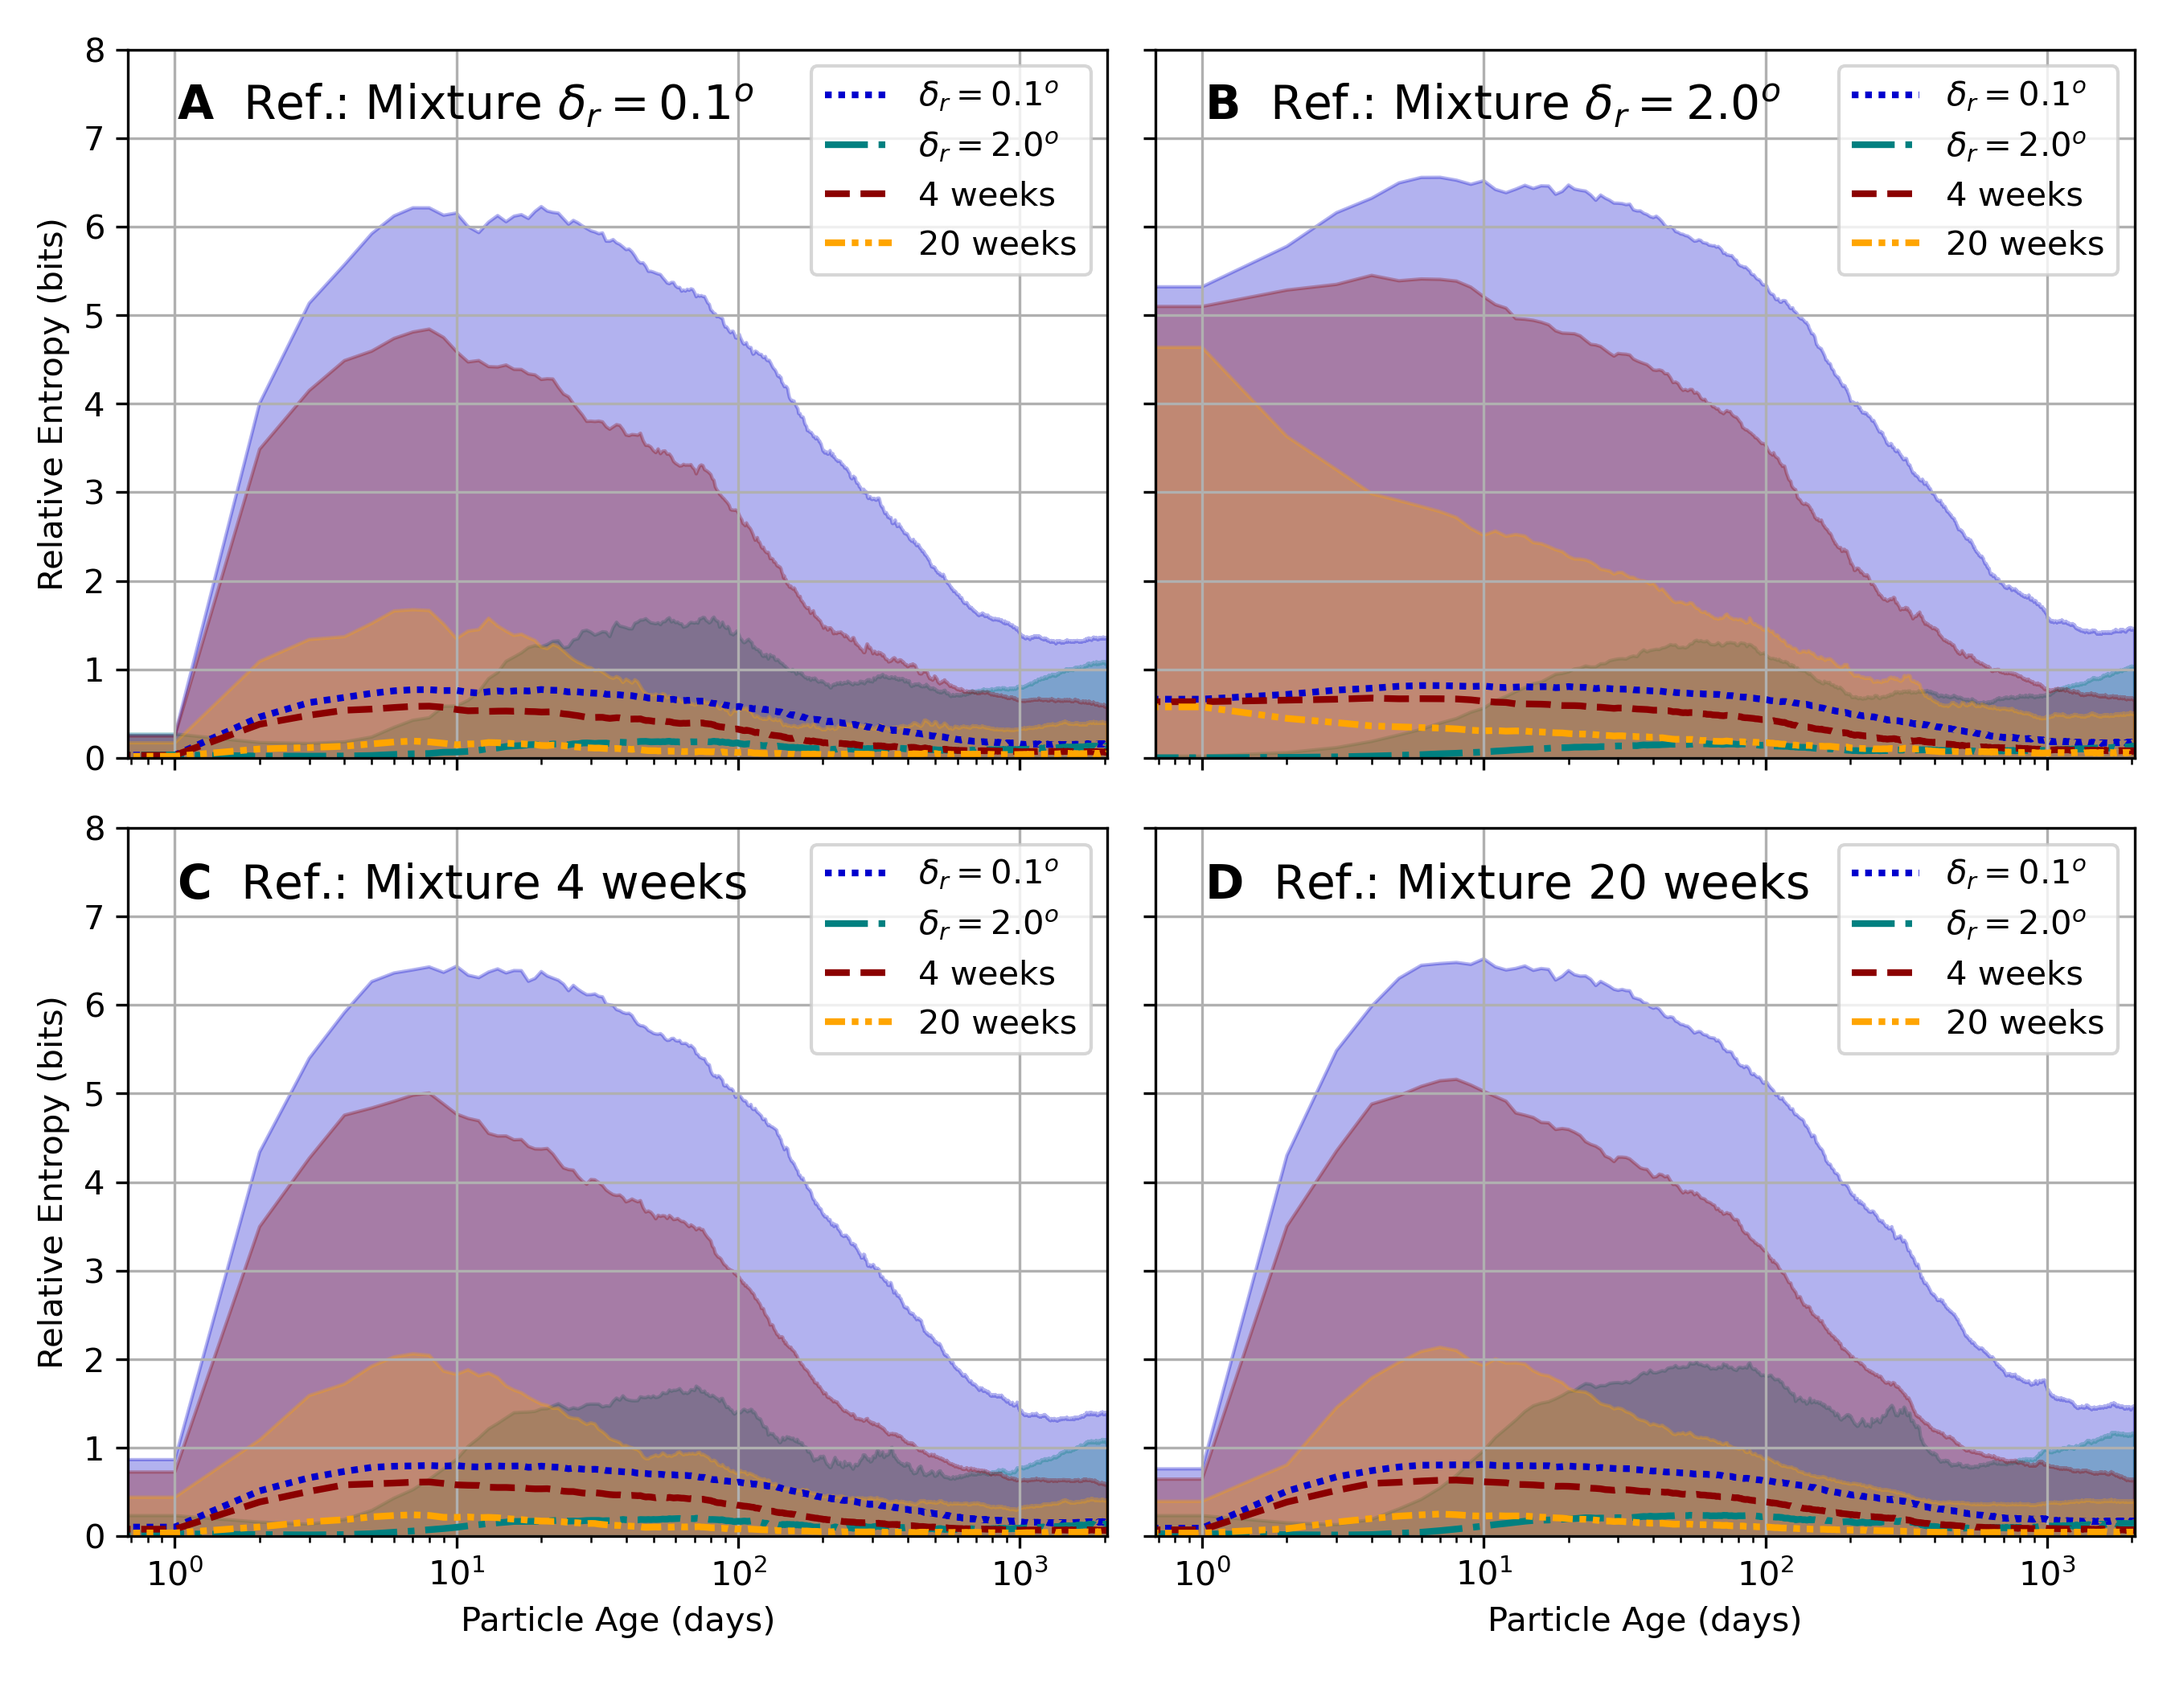
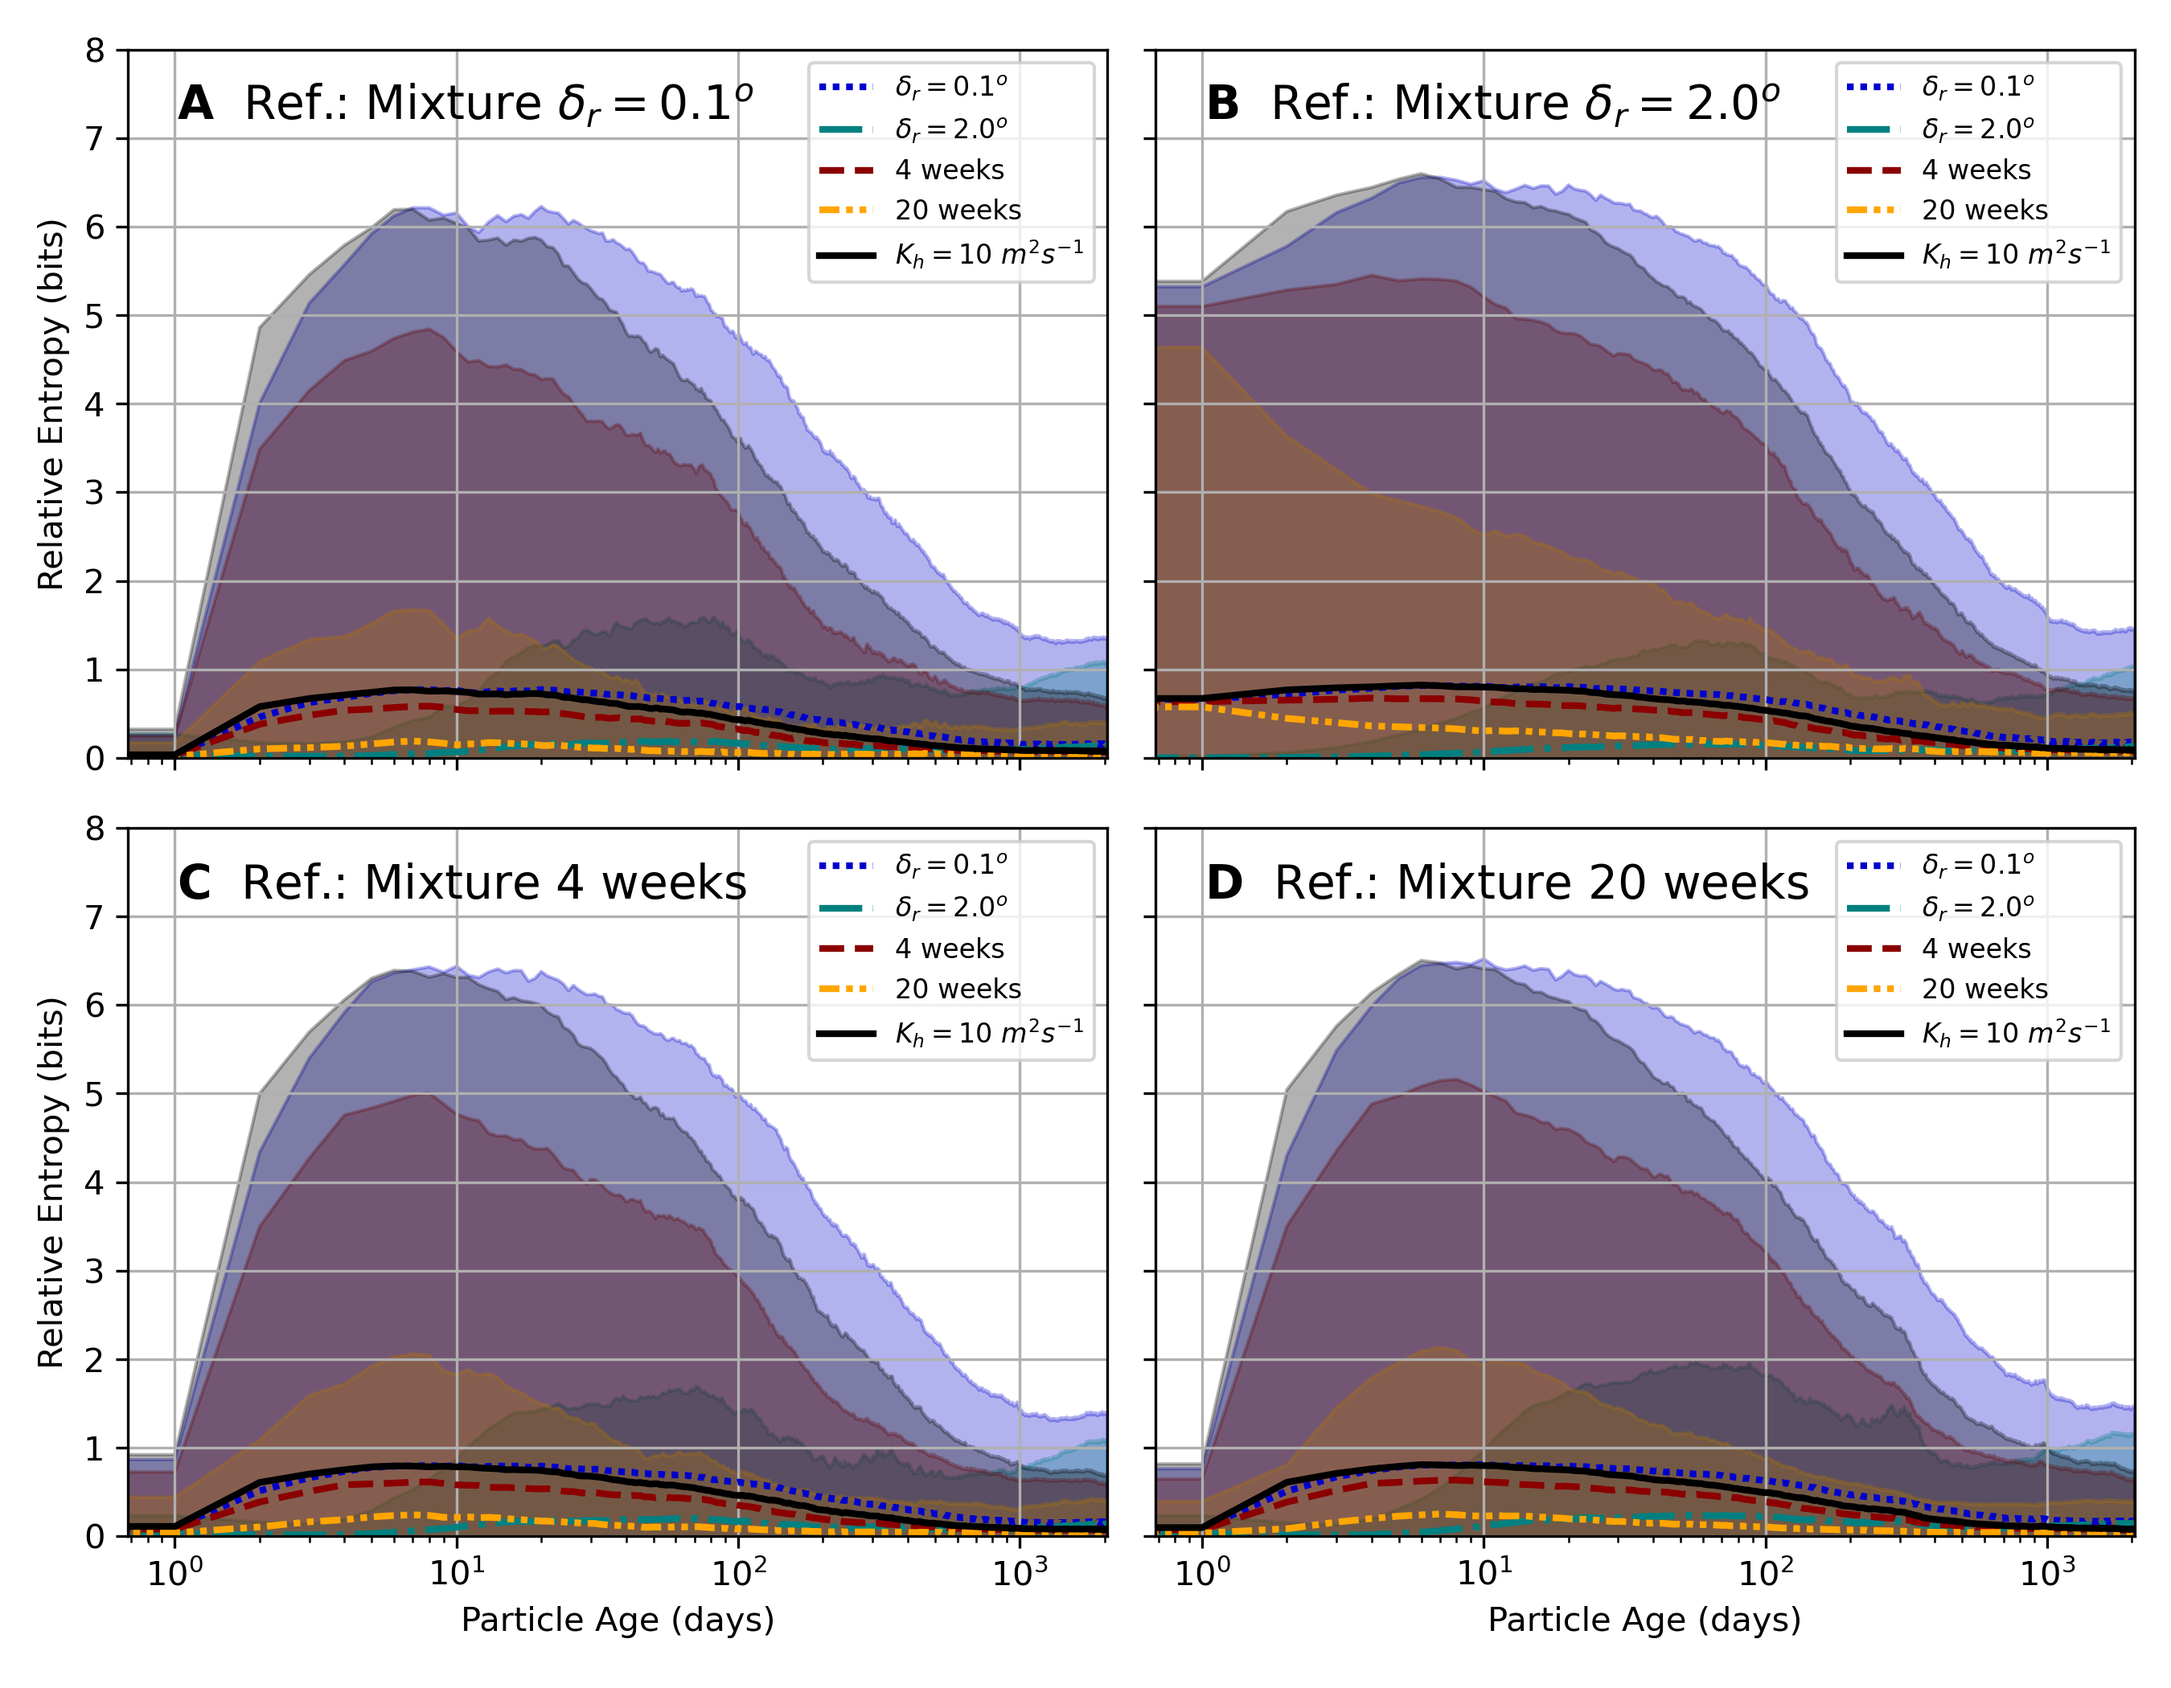
updated figure 5 and 6 to include diffusion simulations

diff --git a/plot_scripts/fig5-6-Cross_entropy_in_time.py b/plot_scripts/fig5-6-Cross_entropy_in_time.py
@@ -50,6 +50,7 @@ time_range = np.arange(0, time_length)
 
 flip = True
 
+# flip is the correct way to calculate the KLDivergence didn't have time to remove this pacth
 if flip:
     patch = '_flipped'
 else:
@@ -61,42 +62,50 @@ N_members = 50
 KLD_ALL_mean = {}
 KLD_ALL_std = {}
 
-for delta_ref in [4, 12, 20]:
+for delta_ref in [2., 4, 20]:
     
     KLDivergence_mean = {}
     KLDivergence_std = {}
     
-    for set in [0.1, 1., 2., 4, 12, 20]:
+    for set in [0.1, 2., 4, 20, 'diff']:
         print(f'Processing set P: {delta_ref}, Q:{set}')
 
         _KLD = np.zeros((N_members**2, time_length))
 
-        
         for l, member in tqdm(enumerate(range(1, N_members+1))):
             for subset_ref in range(1, N_members+1):
-                # print(f'member {member} and subset {subset_ref}')
+                # Loading the Mixture reference distribution as subset_ref 
 
                 if delta_ref in [0.1, 1., 2.]:
+                    # spatial release mixture
                     file_path_ref = base_path + f"{location}_all_long/P_dr{delta_ref*100:03.0f}_all_s{subset_ref:03d}.nc"
                 elif delta_ref in [4, 12, 20]:
+                    # temporal release mixture
                     file_path_ref = base_path + f"{location}_all_long/P_W{delta_ref:02d}_all_s{subset_ref:03d}.nc"
                 
                 P_ref = xr.open_dataset(file_path_ref)
                 P_ref = P_ref.sortby('hexint')
 
+                # Loading the member distribution as set
                 if set in [0.1, 1., 2.]:
+                    # Spatial
                     file_path_Q = base_path + f"{location}_spatial_long/P_dr{set*100:03.0f}_m{member:03d}.nc"
                 elif set in [4, 12, 20]:
+                    # Temporal
                     file_path_Q = base_path + f"{location}_temporal_long/P_W{set:01d}_m{member:03d}.nc"
+                elif set == 'diff':
+                    # Diffusion
+                    file_path_Q = base_path + f"{location}_diffusion_long/P_diff_Kh_10_m{member:03d}.nc"
                 
                 P_Q = xr.open_dataset(file_path_Q)
                 P_Q = P_Q.sortby('hexint')
 
                 if flip:
-                    _KLD[l, :] = KLDivergence(P_Q['probability'], P_ref['probability'], axis=0)[:time_length]
+                    # correct way to calculate the KLDivergence
+                    _KLD[l, :] = KLDivergence(P_Q['probability'][:, :2189], P_ref['probability'], axis=0)[:time_length]
                     patch = '_flipped'
                 else:
-                    _KLD[l, :] = KLDivergence(P_ref['probability'], P_Q['probability'], axis=0)[:time_length]
+                    _KLD[l, :] = KLDivergence(P_ref['probability'][:, :2189], P_Q['probability'], axis=0)[:time_length]
                     patch = '_normal'
                     
                     
@@ -105,7 +114,8 @@ for delta_ref in [4, 12, 20]:
         
         KLDivergence_mean[set] = avg_KLD
         KLDivergence_std[set] = std_KLD
-        
+
+
     with open(f'/Volumes/Claudio SSD/Ensemble_article_data/analysis/KLD_time/KLD_time_{delta_ref}{patch}.pkl', 'wb') as f:
         pickle.dump(KLDivergence_mean, f)
     
@@ -115,19 +125,12 @@ for delta_ref in [4, 12, 20]:
     KLD_ALL_mean[delta_ref] = KLDivergence_mean
     KLD_ALL_std[delta_ref] = KLDivergence_std
 
-#%% # save KLDivergence_mean and KLDivergence_std to file
-# with open(f'/Volumes/Claudio SSD/Ensemble_article_data/analysis/KLD_time/KLD_time_ALL_mean{patch}.pkl', 'wb') as f:
-#     pickle.dump(KLD_ALL_mean, f)
-        
-# with open(f'/Volumes/Claudio SSD/Ensemble_article_data/analysis/KLD_time/KLD_time_ALL_std{patch}.pkl', 'wb') as f:
-#     pickle.dump(KLD_ALL_std, f)
-
 #%% Open pickles and make KLD_mean and KLD_std
 KLD_ALL_mean = {}
 KLD_ALL_std = {}
 
 
-for delta_ref in [0.1, 1., 2., 4, 12, 20]:
+for delta_ref in [0.1, 2., 4, 20]:
     path = f'/Volumes/Claudio SSD/Ensemble_article_data/analysis/KLD_time/KLD_time_{delta_ref}{patch}.pkl'
     
     with open(path, 'rb') as f:
@@ -137,8 +140,6 @@ for delta_ref in [0.1, 1., 2., 4, 12, 20]:
     
     with open(path, 'rb') as f:
         KLD_ALL_std[delta_ref] = pickle.load(f)
-
-    
 
 #%%
 fig, axs = plt.subplots(2, 2, figsize=(9, 7), sharex=True, sharey=True)
@@ -151,15 +152,17 @@ axs = axs.ravel()
 
 for i, key in enumerate([0.1, 2., 4, 20]):
     
-    lss = [(0, (1, 1)), '-.', '--',(0, (3, 1, 1, 1, 1, 1))]
-    colors = ['mediumblue', 'teal', 'darkred', 'orange']
+    lss = [(0, (1, 1)), '-.', '--',(0, (3, 1, 1, 1, 1, 1)), '-']
+    colors = ['mediumblue', 'teal', 'darkred', 'orange', 'black']
     
     ax = axs[i]
-    for k, set in enumerate([0.1, 2., 4, 20]):
-        if set > 2:
+    for k, set in enumerate([0.1, 2., 4, 20, 'diff']):
+        if set in [4, 12, 20]:
             labelz = f'{set:01d} weeks'
-        else:
+        elif set in [0.1, 1., 2.]:
             labelz = f'$\delta_r = {set}^o$'
+        else:
+            labelz = r'$K_h = 10 \ m^2 s^{-1}$'
         
         ax.fill_between(time_range, KLD_ALL_mean[key][set] - KLD_ALL_std[key][set], 
                         KLD_ALL_mean[key][set] + KLD_ALL_std[key][set], alpha=0.3, 
@@ -175,7 +178,7 @@ for i, key in enumerate([0.1, 2., 4, 20]):
     ax.text(0.05, 0.9, f'$\mathbf{{{labels[i]}}}$  Ref.: {labeltt}', fontsize=14, transform=ax.transAxes)
 
     ax.semilogx()
-    ax.legend()
+    ax.legend(fontsize=8)
     ax.grid()
     ax.set_xlim(0, time_length)
     ax.set_ylim(0, 8)
@@ -192,11 +195,12 @@ plt.savefig(f'../figs/Fig5_relative_entropy_subplots{patch}.png', dpi=300)
 DF = {}
 
 for i, key in enumerate(KLD_ALL_mean.keys()):
-    _kld = np.zeros(6)
+    _kld = np.zeros(5)
     
-    for k, set in enumerate([0.1, 1., 2., 4, 12, 20]):
+    for k, set in enumerate([0.1, 2., 4, 20, 'diff']):
         
         _kld[k] = np.mean(KLD_ALL_mean[key][set])
+        print(f'key: {key}, set: {set}, kld: {_kld[k]}', type(_kld[k]))
         
     if key > 2:
         labeltt = f'Mix. {key:01d} weeks'
@@ -206,7 +210,7 @@ for i, key in enumerate(KLD_ALL_mean.keys()):
     DF[labeltt] = _kld
 
 DF = pd.DataFrame(DF)
-DF.set_index([[r'$\delta_r = 0.1^o$', r'$\delta_r = 1^o$',  r'$\delta_r = 2^o$', '4 weeks', '12 weeks', '20 weeks']], inplace=True)
+DF.set_index([[r'$\delta_r = 0.1^o$', r'$\delta_r = 2^o$', '4 weeks', '20 weeks', r'$K_h = 10 \ m^2 s^{-1}$']], inplace=True)
 
 # %% Kullback-Leibler divergence plot 
 fig, ax = plt.subplots(figsize=(6, 5))
@@ -225,9 +229,9 @@ cbar = ax.collections[0].colorbar
 cbar.set_label('Time Averaged Relative Entropy, $D(P_{Mix}||P_i)$ (bits)')
 
 plt.tight_layout()
-plt.show()
+# plt.show()
 
-fig.savefig(f"../figs/Fig6_Time_Average_relentropy{patch}.png", dpi=300)
+# fig.savefig(f"../figs/Fig6_Time_Average_relentropy{patch}.png", dpi=300)
 
 # %%
 
